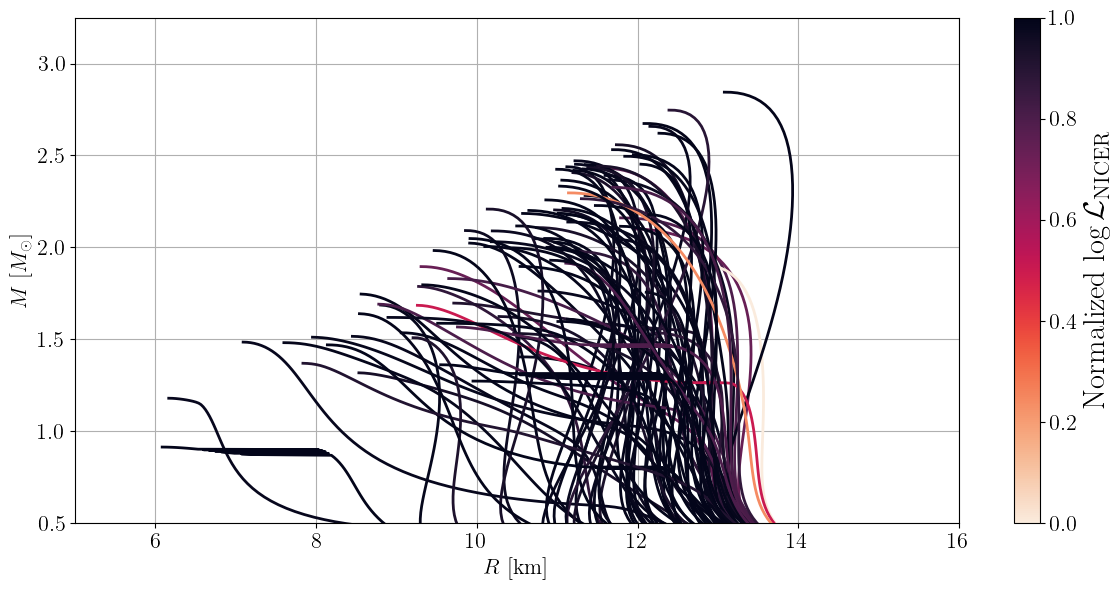
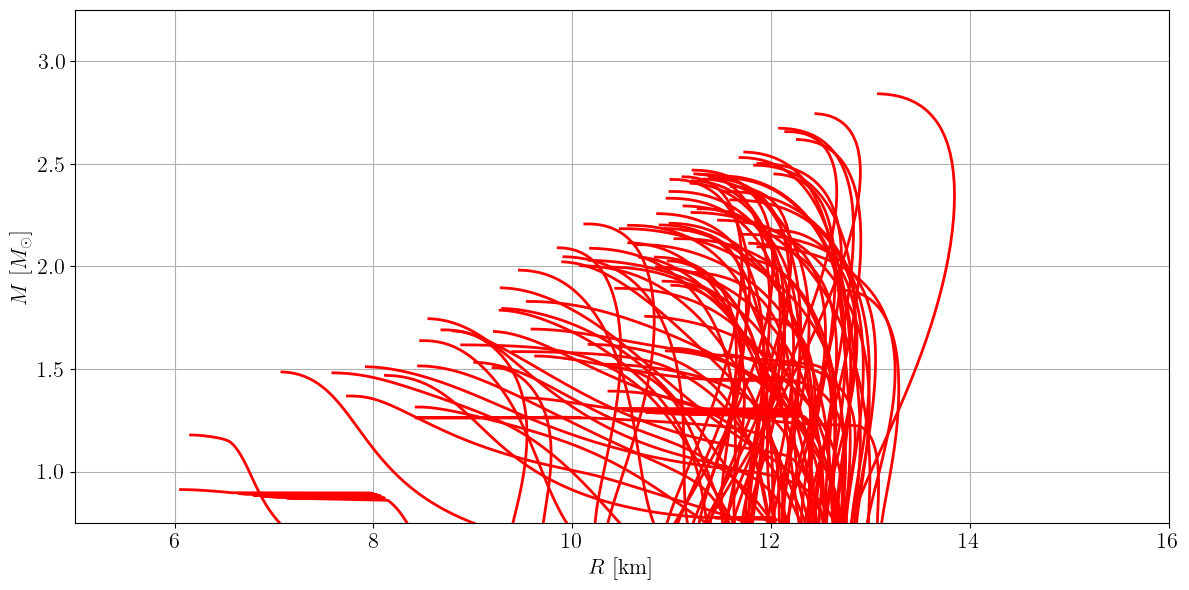
Small updates

diff --git a/inference/playground.py b/inference/playground.py
@@ -11,7 +11,7 @@ p = psutil.Process()
 p.cpu_affinity([0])
 import os
 os.environ["CUDA_VISIBLE_DEVICES"] = "3"
-os.environ["XLA_PYTHON_CLIENT_MEM_FRACTION"] = "0.05"
+os.environ["XLA_PYTHON_CLIENT_MEM_FRACTION"] = "0.15"
 import shutil
 
 import os
@@ -138,11 +138,11 @@ def plot_eos_contours(N: int,
 
     if isinstance(psr_name, str):
         psr_name = [psr_name]
-    save_name_psr = "_".join(psr_name)    
+    suffix = "_".join(psr_name)    
     
-    if isinstance(psr_name, str):
-        psr_name = [psr_name]
-    save_name_psr += "_".join(psr_name)    
+    if isinstance(REX_name, str):
+        REX_name = [REX_name]
+    suffix += "_".join(REX_name)    
     
     for psr in psr_name:
     
@@ -201,30 +201,39 @@ def plot_eos_contours(N: int,
     # Then plot all the EOS data
     all_L = np.array(all_L)
     if np.max(all_L) == np.min(all_L):
+        no_cmap = True
         all_L = np.ones_like(all_L)
     else:
+        no_cmap = False
         all_L = (all_L - np.min(all_L))/(np.max(all_L) - np.min(all_L))
 
     norm = mpl.colors.Normalize(vmin=np.min(all_L), vmax=np.max(all_L))
     # cmap = mpl.cm.Greens
-    cmap = sns.color_palette("rocket_r", as_cmap=True)
+    # cmap = sns.color_palette("rocket_r", as_cmap=True)
+    cmap = mpl.cm.Reds
 
     for i in range(len(all_L)):
-        color = cmap(norm(all_L[i]))  # Get the color from the colormap
+        if no_cmap:
+            color = "red"
+        else:
+            color = cmap(norm(all_L[i]))
         plt.plot(all_radii_EOS[i], all_masses_EOS[i], color=color, linewidth = 2.0, zorder=1e10) # alpha=all_L[i], 
         
     plt.xlim(5, 16)
-    plt.ylim(0.5, 3.25)
+    plt.ylim(0.75, 3.25)
     plt.xlabel(r"$R$ [km]")
     plt.ylabel(r"$M$ [$M_{\odot}$]")
 
-    sm = mpl.cm.ScalarMappable(cmap=cmap, norm=norm)
-    sm.set_array([])
-    cbar = fig.colorbar(sm, ax=ax)
-    cbar.set_label(r'Normalized $\log \mathcal{L}_{\rm{NICER}}$', fontsize = 22)
+    if not no_cmap:
+        sm = mpl.cm.ScalarMappable(cmap=cmap, norm=norm)
+        sm.set_array([])
+        cbar = fig.colorbar(sm, ax=ax)
+        cbar.set_label(r'Normalized $\log \mathcal{L}_{\rm{NICER}}$', fontsize = 22)
 
     plt.tight_layout()
-    plt.savefig(f"./figures/contours_{save_name_psr}.png", bbox_inches = "tight")
+    save_name = f"./figures/contours_{suffix}.png" 
+    print(f"Saving to: {save_name}")
+    plt.savefig(save_name, bbox_inches = "tight")
     plt.close()
 
     print("DONE")
@@ -274,7 +283,11 @@ def main():
     for i in range(NB_CSE):
         left = my_nbreak + i * width
         right = my_nbreak + (i+1) * width
+        
+        # n_CSE
         prior_list.append(UniformPrior(left, right, parameter_names=[f"n_CSE_{i}"]))
+        
+        # cs2_CSE
         prior_list.append(UniformPrior(0.0, 1.0, parameter_names=[f"cs2_CSE_{i}"]))
     
     # Final point to end
@@ -291,15 +304,21 @@ def main():
                                             )
     
     # Likelihood: choose which PSRs to perform inference on:
-    psr_names = ["J0740"]
+    psr_names = []
     likelihoods_list_NICER = [utils.NICERLikelihood(psr) for psr in psr_names]
 
-    REX_names = ["PREX"]
+    # REX_names = ["PREX"]
+    REX_names = []
     likelihoods_list_REX = [utils.REXLikelihood(rex) for rex in REX_names]
 
     likelihoods_list = likelihoods_list_NICER + likelihoods_list_REX
-    likelihood = utils.CombinedLikelihood(likelihoods_list,
-                                          transform = transform)
+    
+    if len(likelihoods_list) == 0:
+        # For testing stuff
+        likelihood = utils.ZeroLikelihood(transform = transform)
+    else:
+        likelihood = utils.CombinedLikelihood(likelihoods_list,
+                                              transform = transform)
 
     name_mapping = (sampled_param_names, ["masses_EOS", "radii_EOS", "Lambdas_EOS"])
     compute_without_vmap(N, prior=prior, likelihood=likelihood)

diff --git a/inference/utils.py b/inference/utils.py
@@ -286,9 +286,9 @@ class NICERLikelihood(LikelihoodBase):
         L = 1/2 * (L_maryland + L_amsterdam)
         log_likelihood = jnp.log(L)
         
-        # # Save: # NOTE: this can only be used if we are not jitting/vmapping over the likelihood
-        # np.savez(f"./computed_data/{self.counter}.npz", masses_EOS = m, radii_EOS = r, logy_maryland = logy_maryland, logy_amsterdam = logy_amsterdam, L=L)
-        # self.counter += 1
+        # Save: # NOTE: this can only be used if we are not jitting/vmapping over the likelihood
+        np.savez(f"./computed_data/{self.counter}.npz", masses_EOS = m, radii_EOS = r, logy_maryland = logy_maryland, logy_amsterdam = logy_amsterdam, L=L)
+        self.counter += 1
         
         return log_likelihood
     
@@ -312,16 +312,15 @@ class REXLikelihood(LikelihoodBase):
         log_likelihood_array = self.posterior.logpdf(jnp.array([params["E_sym"], params["L_sym"]]))
         log_likelihood = log_likelihood_array.at[0].get()
         
-        ### For testing/debugging:
-        # try:
-        #     print(params)
-        #     m, r = params["masses_EOS"], params["radii_EOS"]
-        #     # Save: # NOTE: this can only be used if we are not jitting/vmapping over the likelihood
-        #     np.savez(f"./computed_data/{self.counter}.npz", masses_EOS = m, radii_EOS = r, L=log_likelihood)
-        #     self.counter += 1
+        ## For testing/debugging:
+        try:
+            m, r = params["masses_EOS"], params["radii_EOS"]
+            # Save: # NOTE: this can only be used if we are not jitting/vmapping over the likelihood
+            np.savez(f"./computed_data/{self.counter}.npz", masses_EOS = m, radii_EOS = r, L=log_likelihood)
+            self.counter += 1
             
-        # except Exception as e:
-        #     print(e)
+        except Exception as e:
+            print(e)
         
         return log_likelihood
     
@@ -342,3 +341,20 @@ class CombinedLikelihood(LikelihoodBase):
         
         all_log_likelihoods = jnp.array([likelihood.evaluate(params, data) for likelihood in self.likelihoods_list])
         return jnp.sum(all_log_likelihoods)
+    
+class ZeroLikelihood(LikelihoodBase):
+    def __init__(self,
+                 transform: MicroToMacroTransform = None):
+        
+        # TODO: remove transform input?
+        
+        super().__init__()
+        self.transform = transform
+        self.counter = 0
+    
+    def evaluate(self, params: dict[str, Float], data: dict) -> Float:
+        m, r = params["masses_EOS"], params["radii_EOS"]
+        # Save: # NOTE: this can only be used if we are not jitting/vmapping over the likelihood
+        np.savez(f"./computed_data/{self.counter}.npz", masses_EOS = m, radii_EOS = r, L=0.0)
+        self.counter += 1
+        return 0.0
